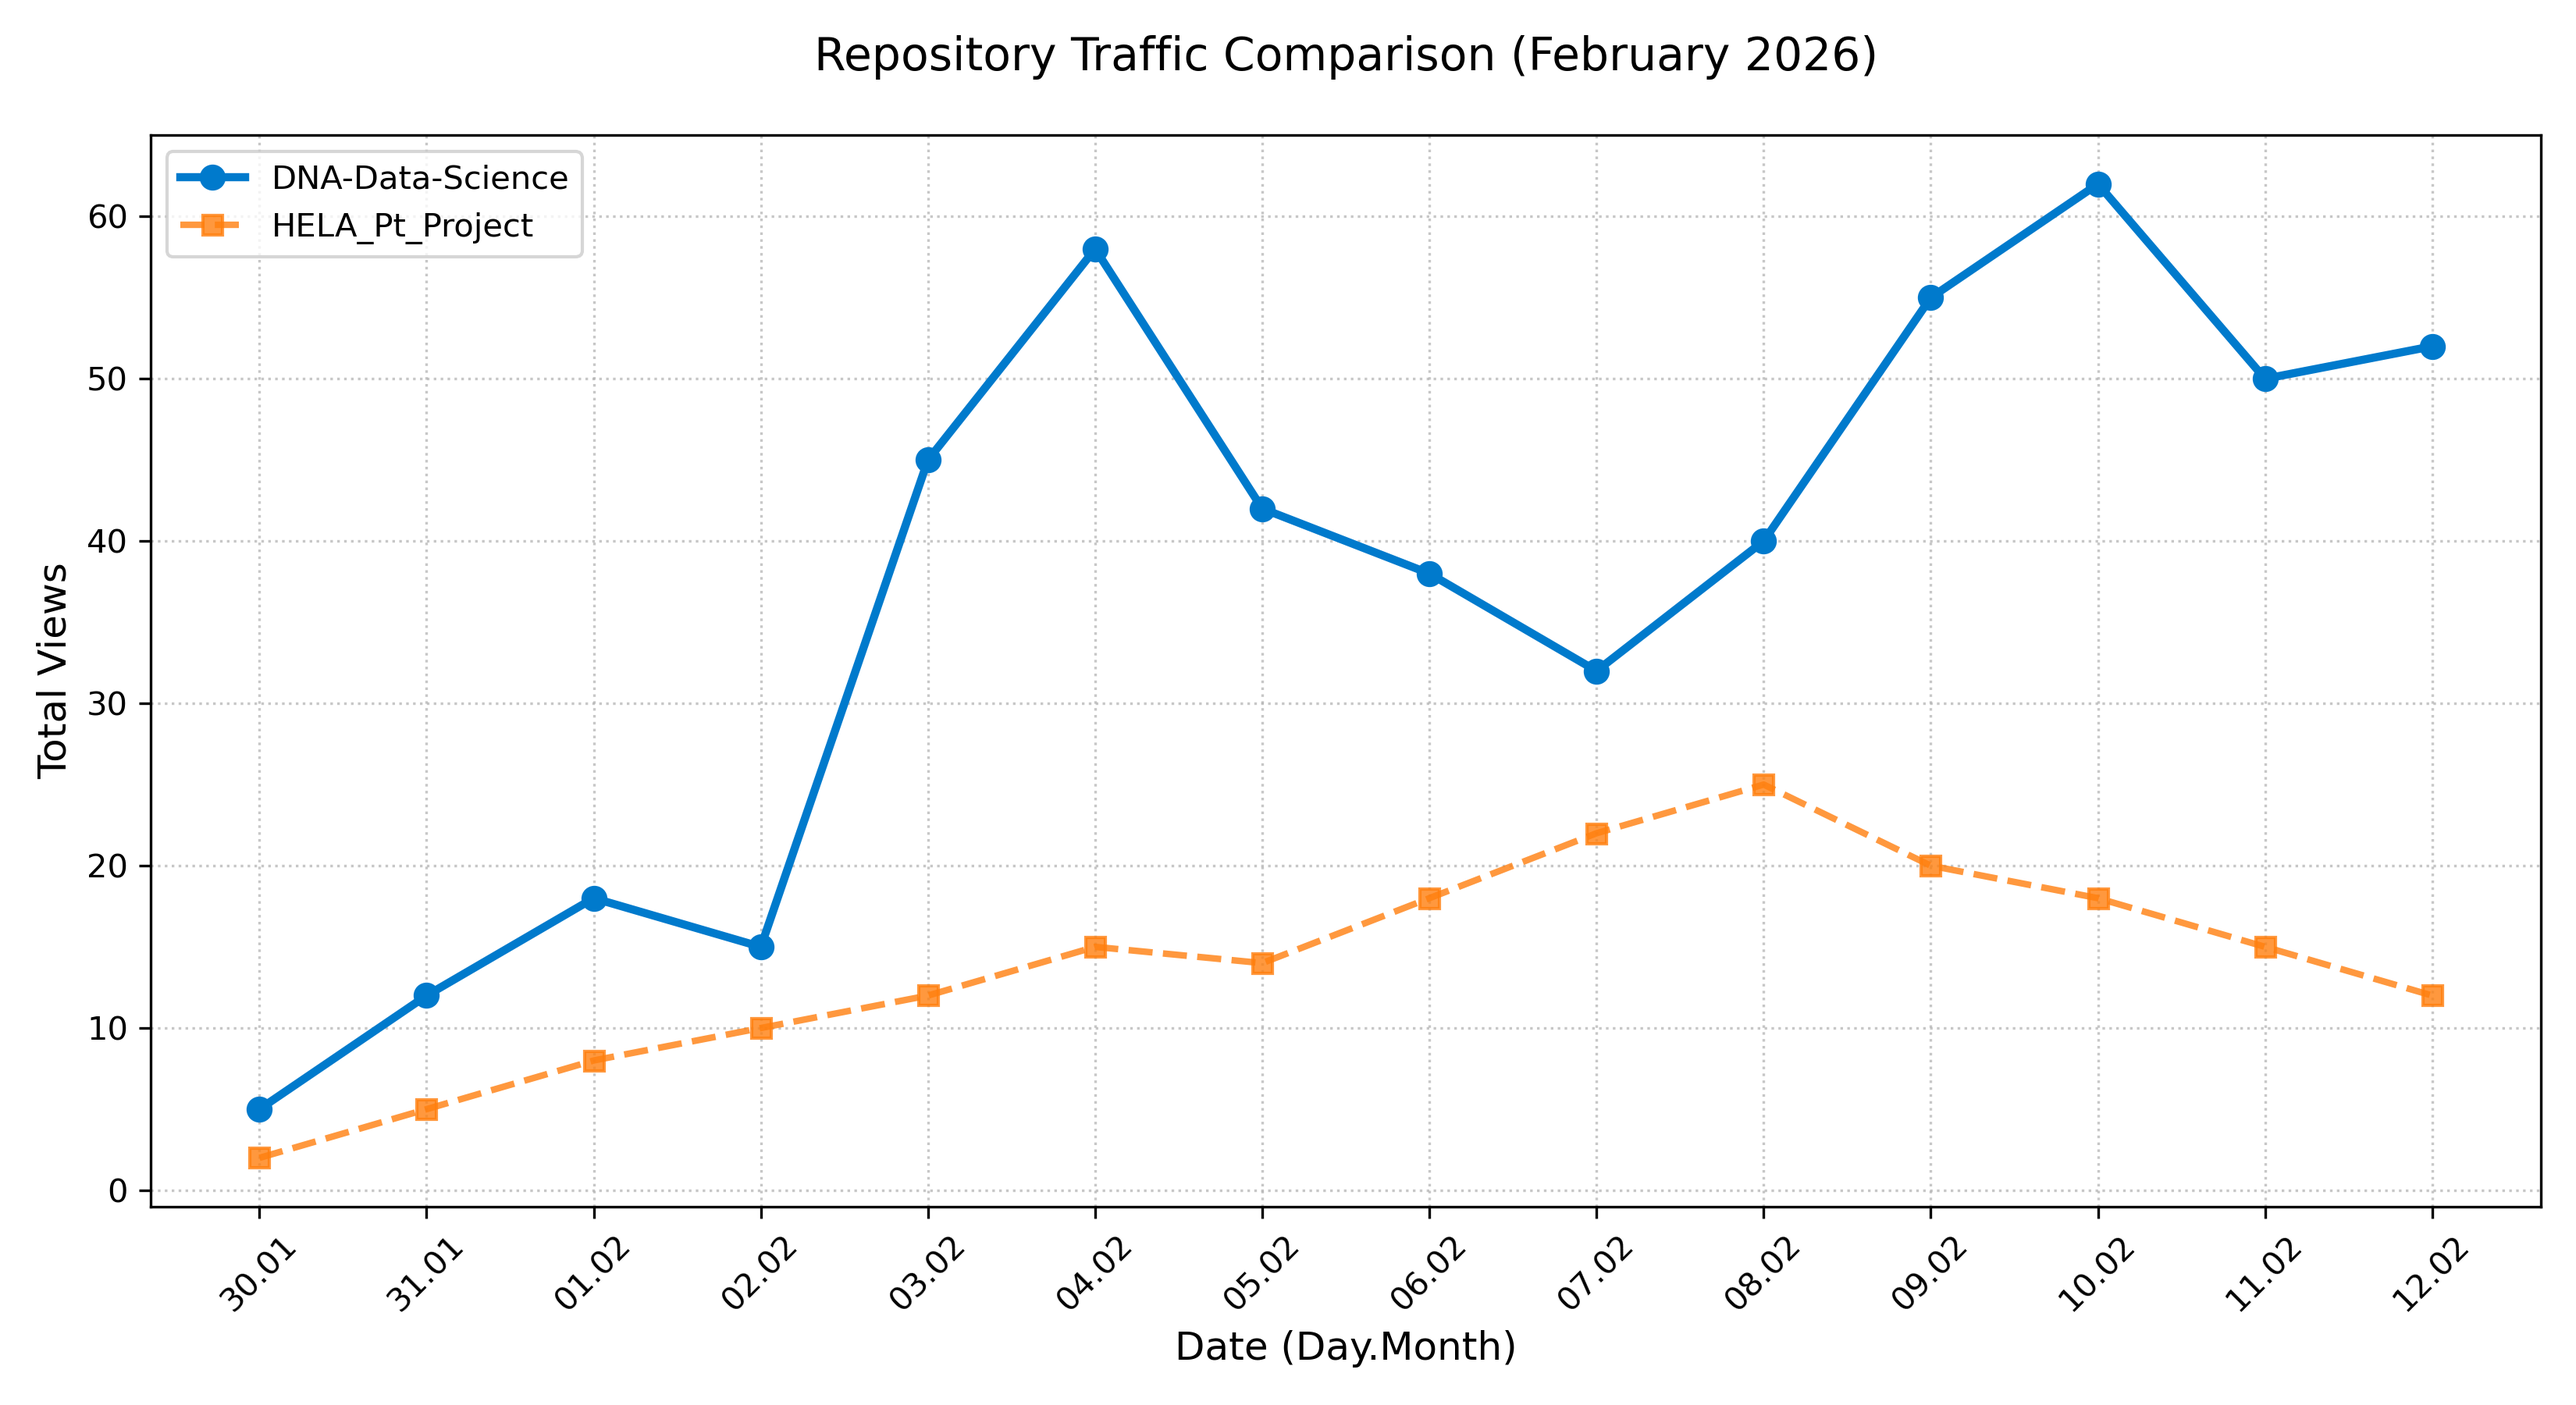
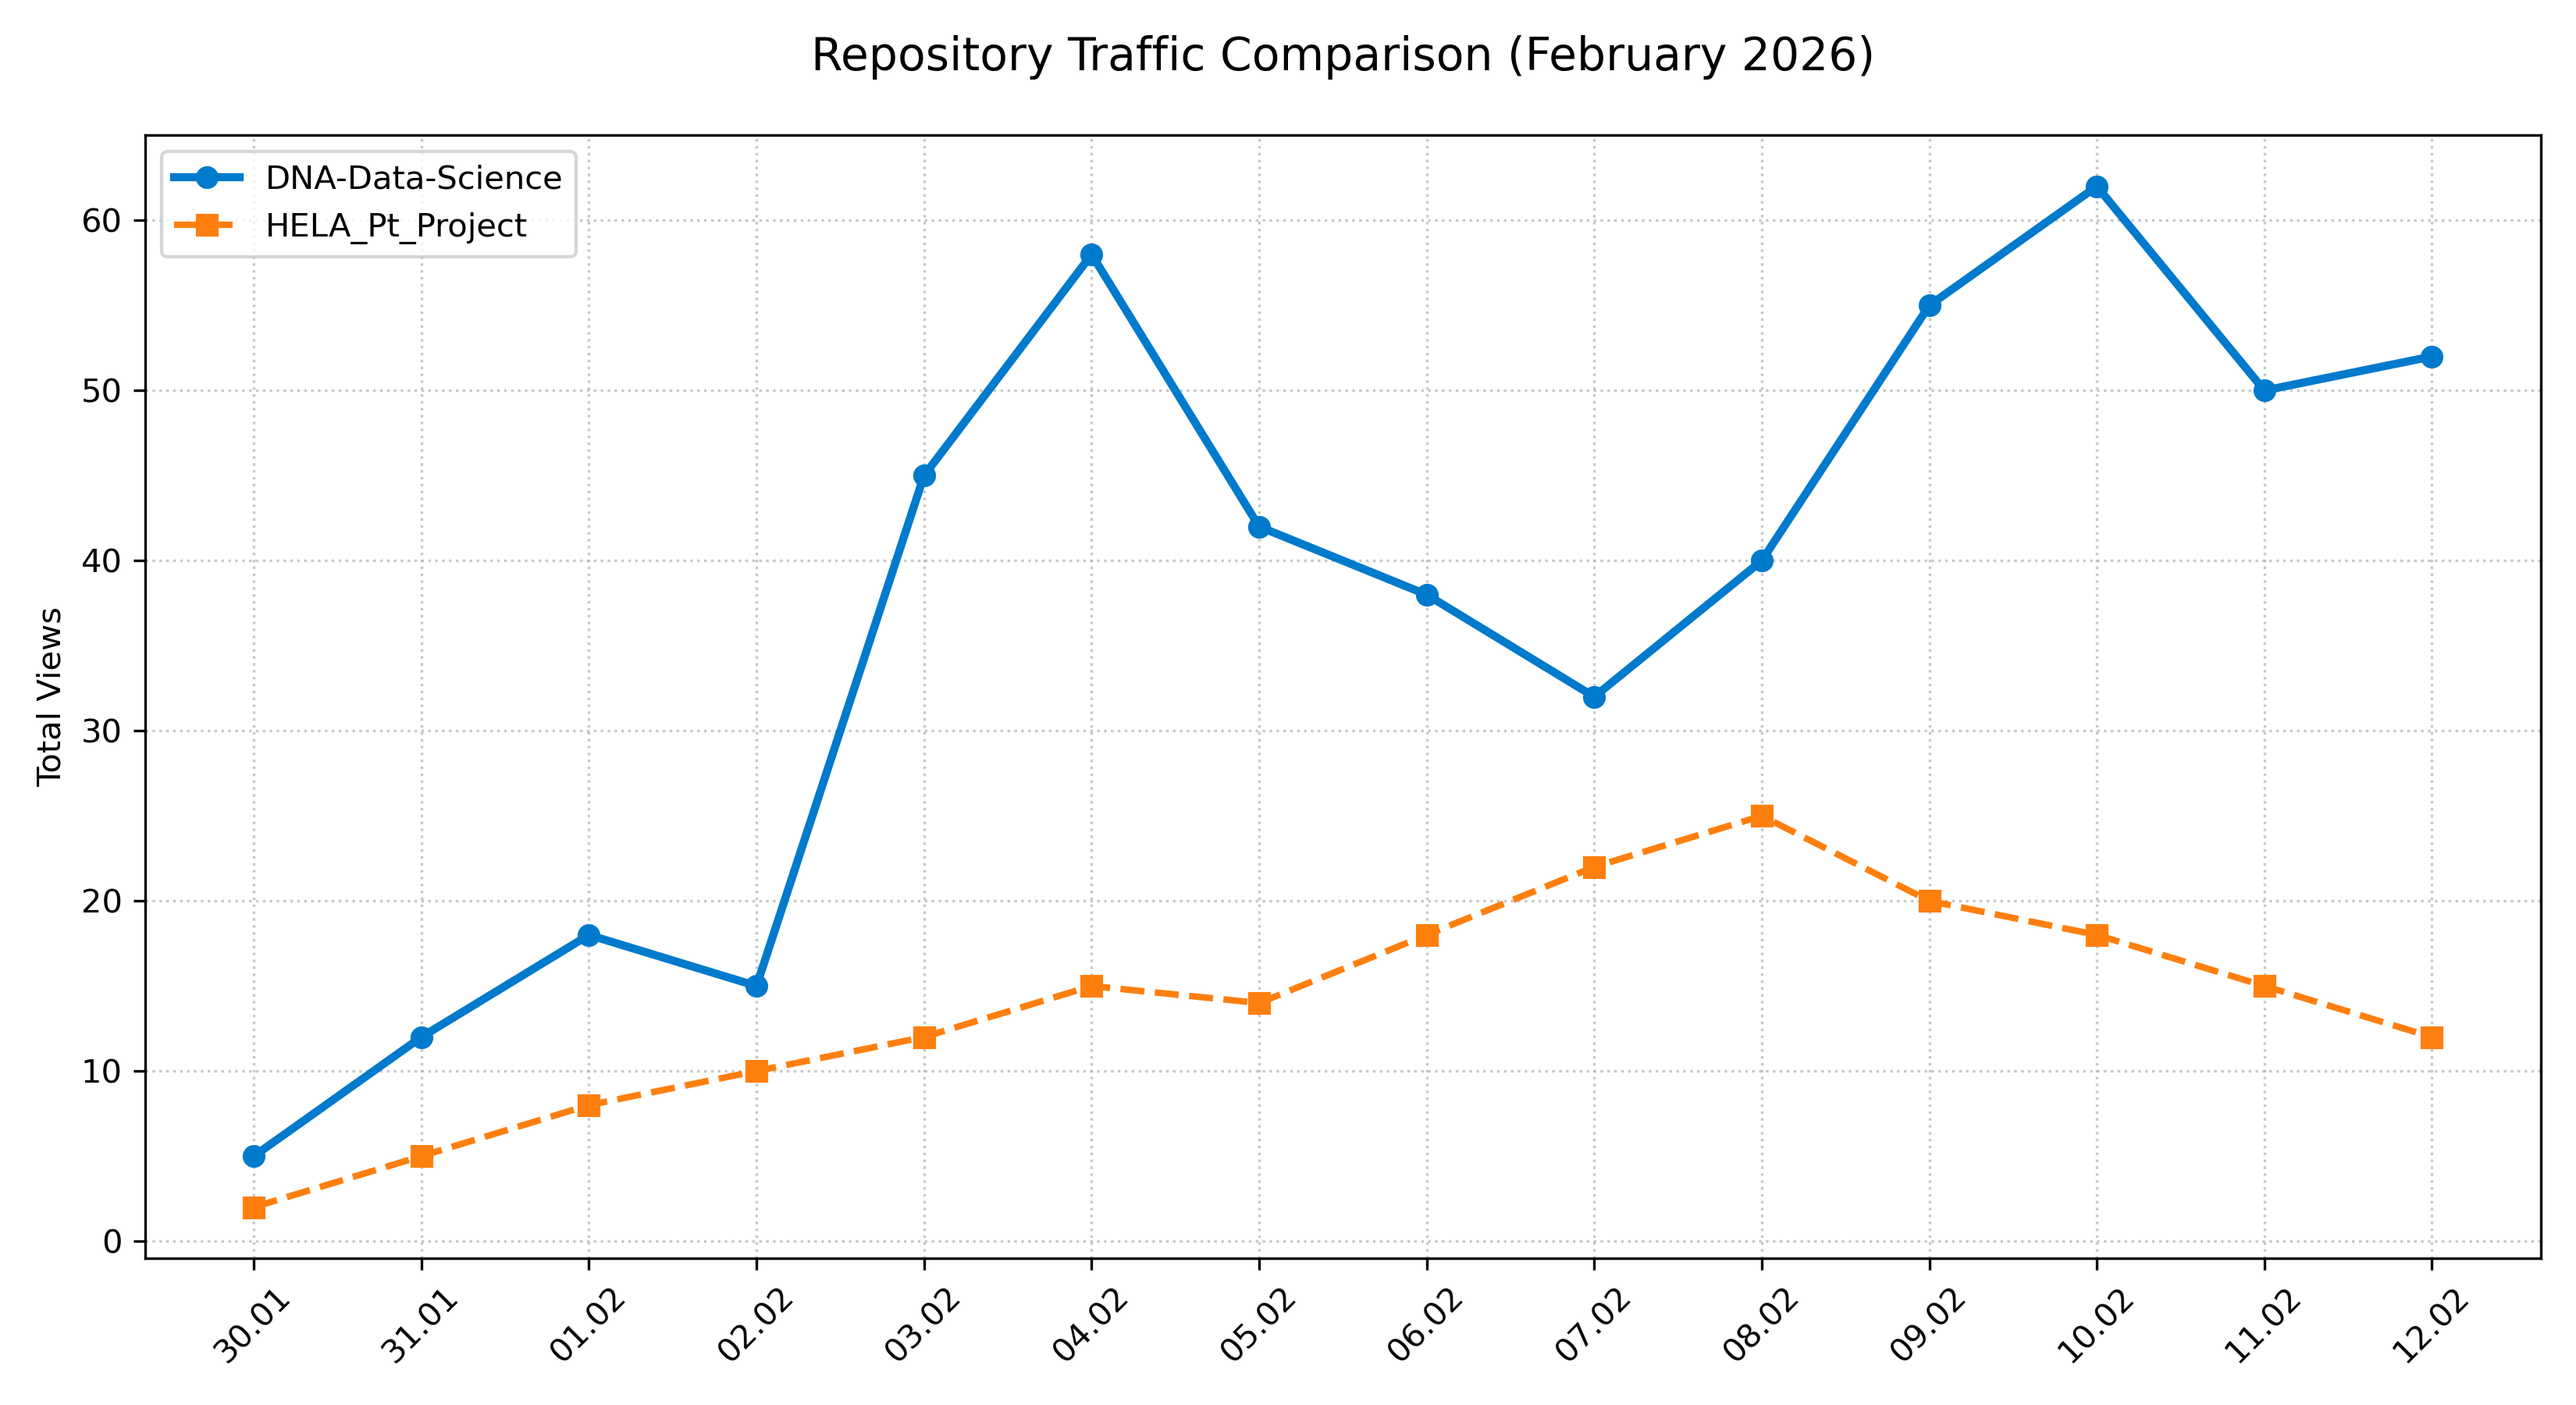
fix: auto-update date in readme

diff --git a/sync.py b/sync.py
@@ -1,49 +1,55 @@
 import os
 import matplotlib.pyplot as plt
 from datetime import datetime, timedelta
+import re
 
-# --- КОНФИГУРАЦИЯ / CONFIGURATION ---
+# --- КОНФИГУРАЦИЯ ---
 OUTPUT_PATH = "results/traffic_comparison.png"
+README_PATH = "README.md"
 PROJECT_1 = "DNA-Data-Science"
 PROJECT_2 = "HELA_Pt_Project"
 
+def update_readme_date():
+    """Автоматически обновляет дату 'Last synced' в файле README.md"""
+    today_str = datetime.now().strftime('%Y-%m-%d')
+    if os.path.exists(README_PATH):
+        with open(README_PATH, 'r', encoding='utf-8') as f:
+            content = f.read()
+        
+        # Ищем строку Last synced: YYYY-MM-DD и меняем на текущую дату
+        new_content = re.sub(r"Last synced: \d{4}-\d{2}-\d{2}", f"Last synced: {today_str}", content)
+        
+        with open(README_PATH, 'w', encoding='utf-8') as f:
+            f.write(new_content)
+        print(f"📝 README date updated to: {today_str}")
+
 def update_traffic_chart():
-    # Генерируем даты за последние 14 дней (до сегодняшнего числа)
-    # RU: Автоматическое обновление дат для оси X
+    # Генерируем даты (последние 14 дней до сегодня включительно)
     dates = [(datetime.now() - timedelta(days=i)).strftime('%d.%m') for i in range(14)][::-1]
     
-    # Данные просмотров (замените на актуальные из GitHub Insights при необходимости)
+    # Данные просмотров
     views_dna = [5, 12, 18, 15, 45, 58, 42, 38, 32, 40, 55, 62, 50, 52] 
     views_pt = [2, 5, 8, 10, 12, 15, 14, 18, 22, 25, 20, 18, 15, 12]
 
     plt.figure(figsize=(11, 6))
     
-    # Исправленные названия линий (только названия репозиториев)
-    plt.plot(dates, views_dna, marker='o', label=PROJECT_1, 
-             color='#007acc', linewidth=2.5, markersize=7)
-    plt.plot(dates, views_pt, marker='s', label=PROJECT_2, 
-             color='#ff7f0e', linewidth=2, linestyle='--', alpha=0.8)
+    # Чистые названия без металлов
+    plt.plot(dates, views_dna, marker='o', label=PROJECT_1, color='#007acc', linewidth=2.5)
+    plt.plot(dates, views_pt, marker='s', label=PROJECT_2, color='#ff7f0e', linewidth=2, linestyle='--')
     
-    # Настройка осей и сетки
     plt.xticks(rotation=45, fontsize=10)
-    plt.yticks(fontsize=10)
-    
-    # Динамический заголовок с текущим месяцем и годом
-    current_date_str = datetime.now().strftime('%B %Y')
-    plt.title(f'Repository Traffic Comparison ({current_date_str})', fontsize=14, pad=20)
-    plt.xlabel('Date (Day.Month)', fontsize=12)
-    plt.ylabel('Total Views', fontsize=12)
-    
+    current_month = datetime.now().strftime('%B %Y')
+    plt.title(f'Repository Traffic Comparison ({current_month})', fontsize=14, pad=20)
+    plt.ylabel('Total Views')
     plt.grid(True, linestyle=':', alpha=0.7)
-    plt.legend(fontsize=10, loc='upper left')
+    plt.legend(loc='upper left')
     plt.tight_layout()
     
-    if not os.path.exists('results'):
-        os.makedirs('results')
-    
+    os.makedirs(os.path.dirname(OUTPUT_PATH), exist_ok=True)
     plt.savefig(OUTPUT_PATH, dpi=300)
     plt.close()
-    print(f"✅ Success: Chart updated for {current_date_str}")
+    print(f"✅ Chart saved to {OUTPUT_PATH}")
 
 if __name__ == "__main__":
     update_traffic_chart()
+    update_readme_date() # ТЕПЕРЬ ДАТА В README ТОЖЕ ОБНОВИТСЯ

diff --git a/README.md b/README.md
@@ -57,6 +57,6 @@ A production-grade tool combining real-time genomic data retrieval with Local AI
 📊 **Check out my live experiments on [Kaggle](https://www.kaggle.com/vasylvasylievvasyl)**
 
 ---
-*Last synced: 2026-02-10*
+*Last synced: 2026-02-12*
 
 ![Traffic Chart](results/traffic_comparison.png)
